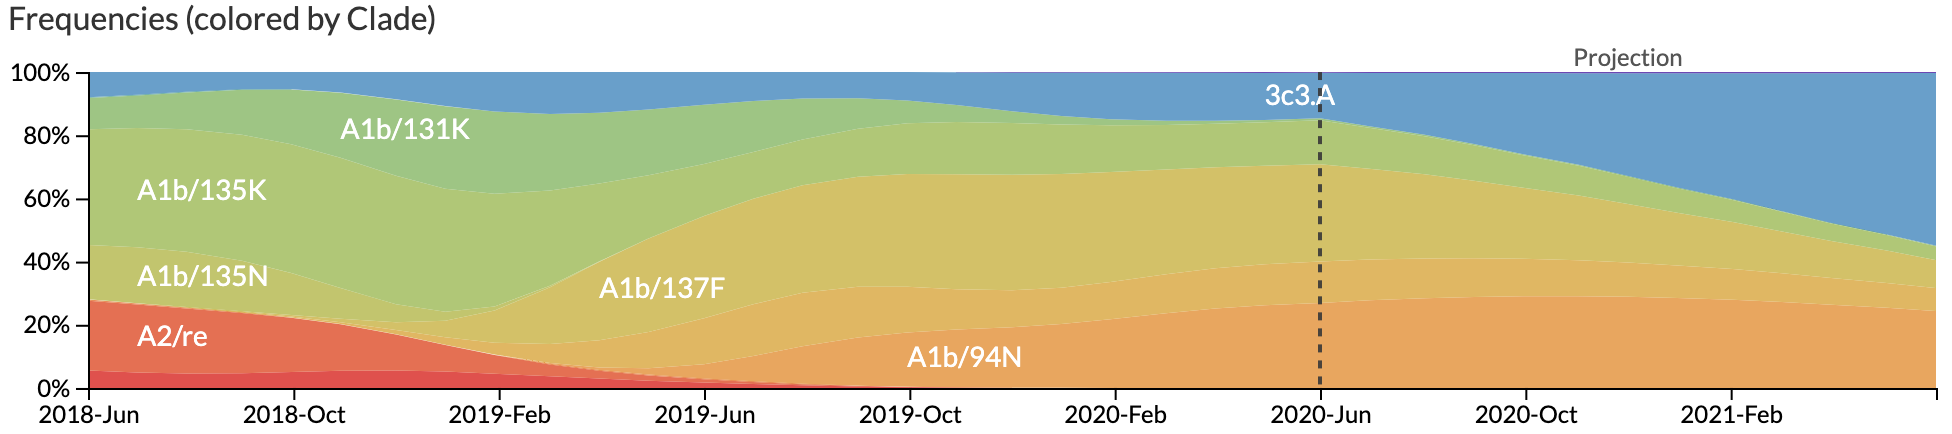
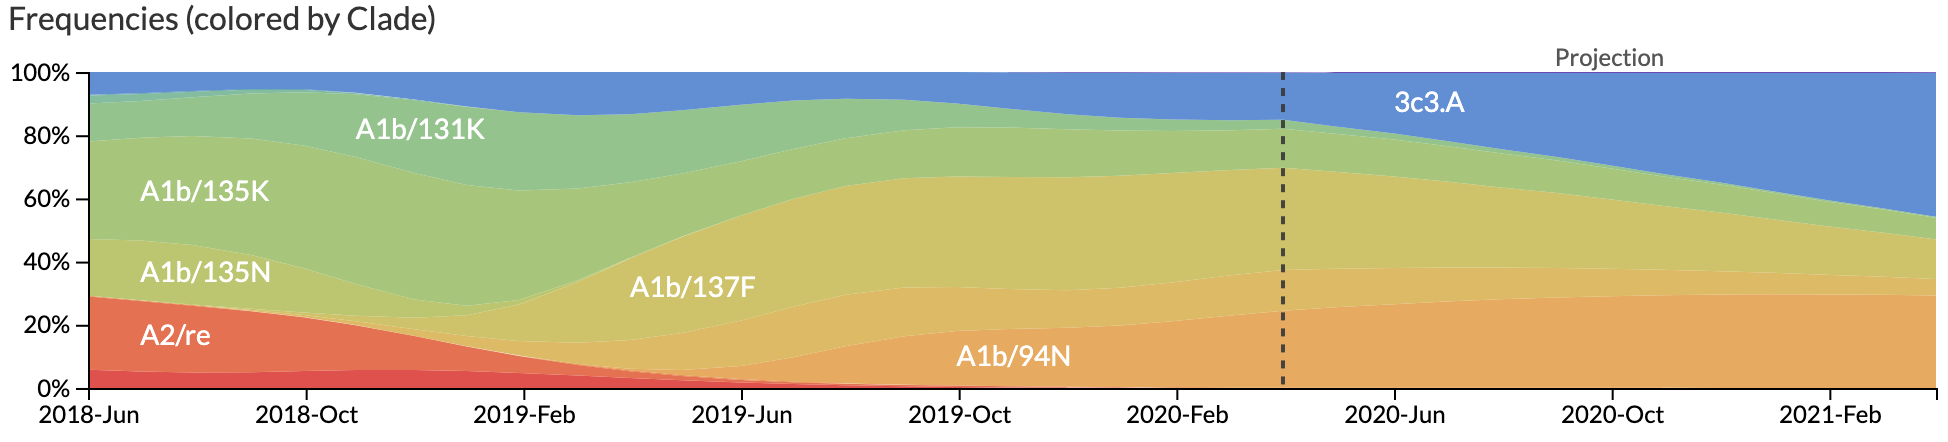
Update forecast snapshots to make forecasts from latest data
As of June 6, the latest H3N2 data were collected up to the beginning of
April. This commit uses forecasts made from April 1, 2020 to April 1, 2021 for a
more realistic comparison with how forecasts are made elsewhere in the
manuscript (i.e., from timepoints where all data are available).

diff --git a/manuscript/main.tex b/manuscript/main.tex
@@ -349,19 +349,18 @@ Interestingly, the FRA antigenic novelty metric received a consistently positive
 Unfortunately, this model performed considerably worse than the corresponding HI-based model.
 These results suggest that we may need more FRA data across a longer historical timespan to train a model that could replace the HI-based model.
 
-After confirming the coefficients for our best model of HI antigenic novelty and mutational load, we inspected forecasts of H3N2 clades from January 2020 to 2021 using data available up through January 17, 2020.
-Of the three major currently circulating clades, our model predicted growth of the clades A1b/131K and 3c3.A and decline of all other clades (Fig.~\ref{fig:nextstrain_forecasts}).
-Four months after those forecasts, the subclades of A1b/131K represented 40\% of the global H3N2 population an increase from an estimated 35\% frequency in January.
-The 3c3.A clade increased slightly in global frequency from 13\% to 15\%, in that time.
+After confirming the coefficients for our best model of HI antigenic novelty and mutational load, we inspected forecasts of H3N2 clades using all data available up through June 6, 2020.
+Consistent with an average two-month lag between data collection and submission, the most recent data were collected up to April 1, 2020 and made our forecasts from this timepoint to April 1, 2021.
+Of the five major currently circulating clades, our model predicted growth of the clades 3c3.A and A1b/94N and decline of clades A1b/135K, A1b/137F, and A1b/197R (Fig.~\ref{fig:nextstrain_forecasts}).
 To aid with identification of potential vaccine candidates for the next season, we annotated strains in the phylogeny by their estimated distance to the future based on our best model (Fig.~\ref{fig:nextstrain_distance_to_future}).
 
 \begin{figure}[htb]
   \begin{center}
   \includegraphics[width=\textwidth]{figures/nextstrain-forecasts.png}
   \caption{
-    Snapshot of live forecasts on nextstrain.org from our best model (HI antigenic novelty and mutational load) for January 2021.
-    The observed frequency trajectories for currently circulating clades are shown up to January 2020.
-    Our model forecasts growth of the clades A1b/131K and 3c3.A and decline of all other major clades.
+    Snapshot of live forecasts on nextstrain.org from our best model (HI antigenic novelty and mutational load) for April 1, 2021.
+    The observed frequency trajectories for currently circulating clades are shown up to April 1, 2020.
+    Our model forecasts growth of the clades 3c3.A and A1b/94N and decline of all other major clades.
   }
   \label{fig:nextstrain_forecasts}
   \end{center}
